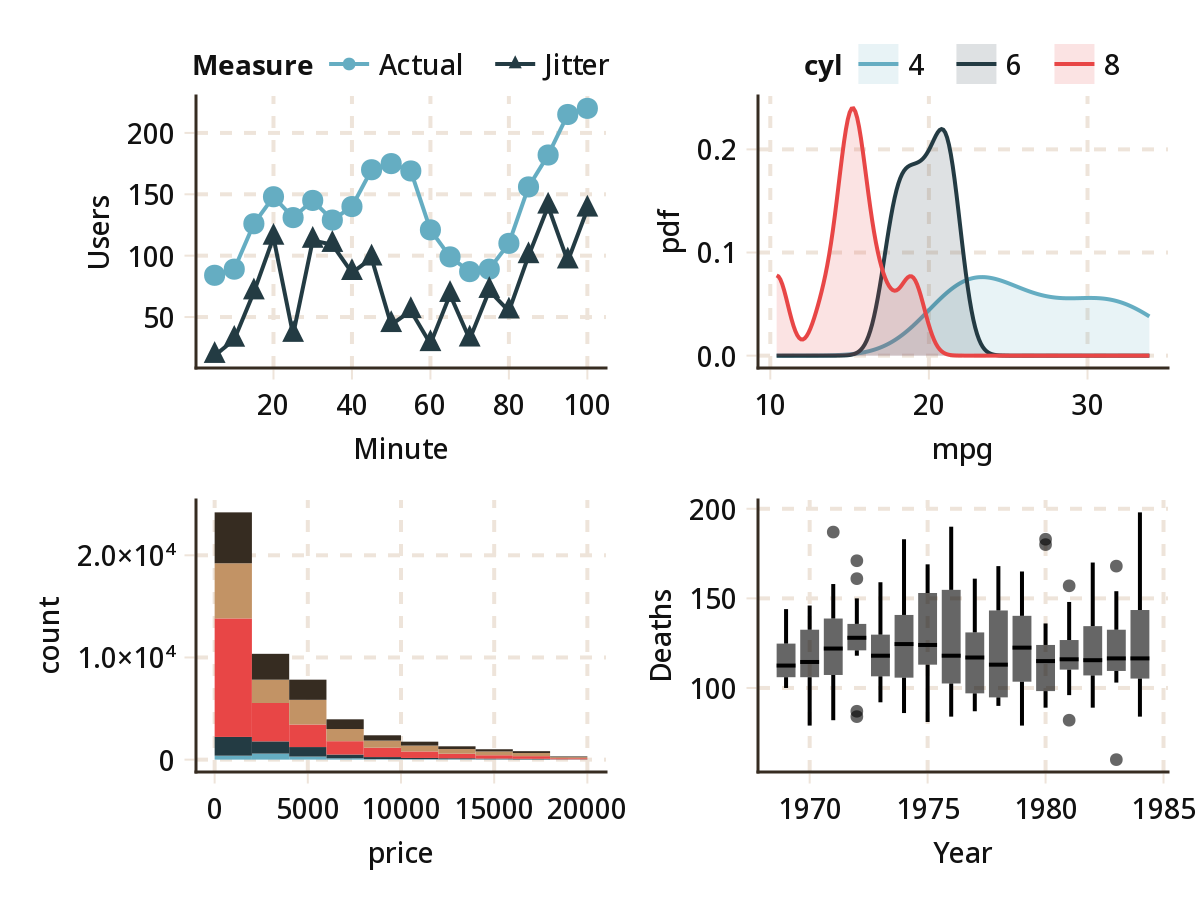
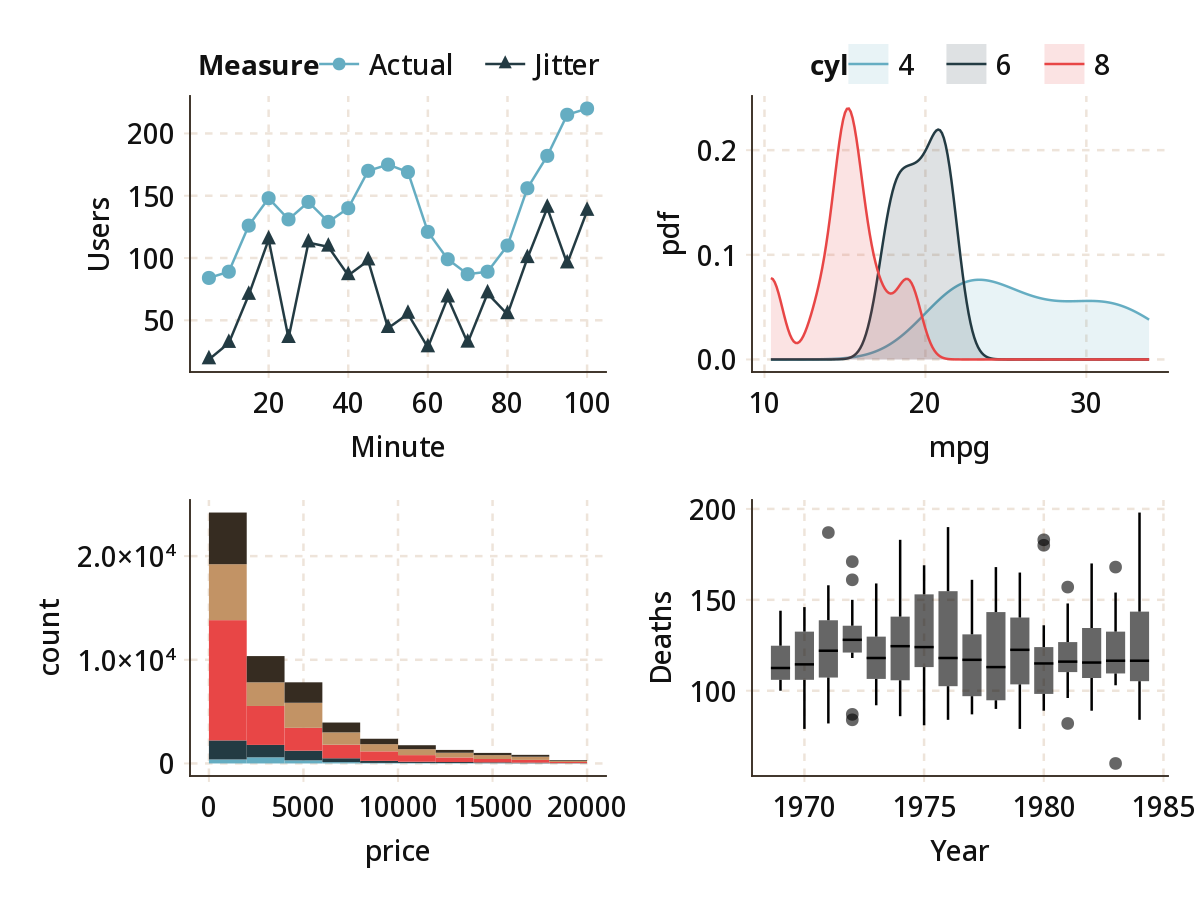
Fix themes for new Makie resolution (#28)
* Fix themes for new Makie resolution

* don't be evil

diff --git a/ggthemr.md b/ggthemr.md
@@ -4,68 +4,68 @@ This emulates the themes from [the R gghthemr library](https://github.com/cttobi
 
 ### flat
 
-<img src="img/flat.png" alt="flat" width="400"/>
+<img src="img/demofigure/flat.png" alt="flat" width="400"/>
 
 ### dust
 
-<img src="img/dust.png" alt="dust" width="400"/>
+<img src="img/demofigure/dust.png" alt="dust" width="400"/>
 
 ### fresh
 
-<img src="img/fresh.png" alt="fresh" width="400"/>
+<img src="img/demofigure/fresh.png" alt="fresh" width="400"/>
 
 ### carrot
 
-<img src="img/carrot.png" alt="carrot" width="400"/>
+<img src="img/demofigure/carrot.png" alt="carrot" width="400"/>
 
 ### flat_dark
 
-<img src="img/flat_dark.png" alt="carrot" width="400"/>
+<img src="img/demofigure/flat_dark.png" alt="carrot" width="400"/>
 
 ### sky
 
-<img src="img/sky.png" alt="sky" width="400"/>
+<img src="img/demofigure/sky.png" alt="sky" width="400"/>
 
 ### copper
 
-<img src="img/copper.png" alt="copper" width="400"/>
+<img src="img/demofigure/copper.png" alt="copper" width="400"/>
 
 ### light
 
-<img src="img/light.png" alt="light" width="400"/>
+<img src="img/demofigure/light.png" alt="light" width="400"/>
 
 ### pale
 
-<img src="img/pale.png" alt="pale" width="400"/>
+<img src="img/demofigure/pale.png" alt="pale" width="400"/>
 
 ### solarized
 
-<img src="img/solarized.png" alt="solarized" width="400"/>
+<img src="img/demofigure/solarized.png" alt="solarized" width="400"/>
 
 ### sea
 
-<img src="img/sea.png" alt="sea" width="400"/>
+<img src="img/demofigure/sea.png" alt="sea" width="400"/>
 
 ### chalk
 
-<img src="img/chalk.png" alt="chalk" width="400"/>
+<img src="img/demofigure/chalk.png" alt="chalk" width="400"/>
 
 ### greyscale
 
-<img src="img/greyscale.png" alt="greyscale" width="400"/>
+<img src="img/demofigure/greyscale.png" alt="greyscale" width="400"/>
 
 ### earth
 
-<img src="img/earth.png" alt="earth" width="400"/>
+<img src="img/demofigure/earth.png" alt="earth" width="400"/>
 
 ### lilac
 
-<img src="img/lilac.png" alt="lilac" width="400"/>
+<img src="img/demofigure/lilac.png" alt="lilac" width="400"/>
 
 ### grass
 
-<img src="img/grass.png" alt="grass" width="400"/>
+<img src="img/demofigure/grass.png" alt="grass" width="400"/>
 
 ### grape
 
-<img src="img/grape.png" alt="grape" width="400"/>
+<img src="img/demofigure/grape.png" alt="grape" width="400"/>

diff --git a/docs/src/themes/bbc.md b/docs/src/themes/bbc.md
@@ -21,3 +21,7 @@ MakieThemes.demoscatter(theme_bbc())
 ```
 
 The `finalize_plot` functionality in `bbplot` is planned for the near future, so stay tuned!
+
+```@docs
+theme_bbc
+```
